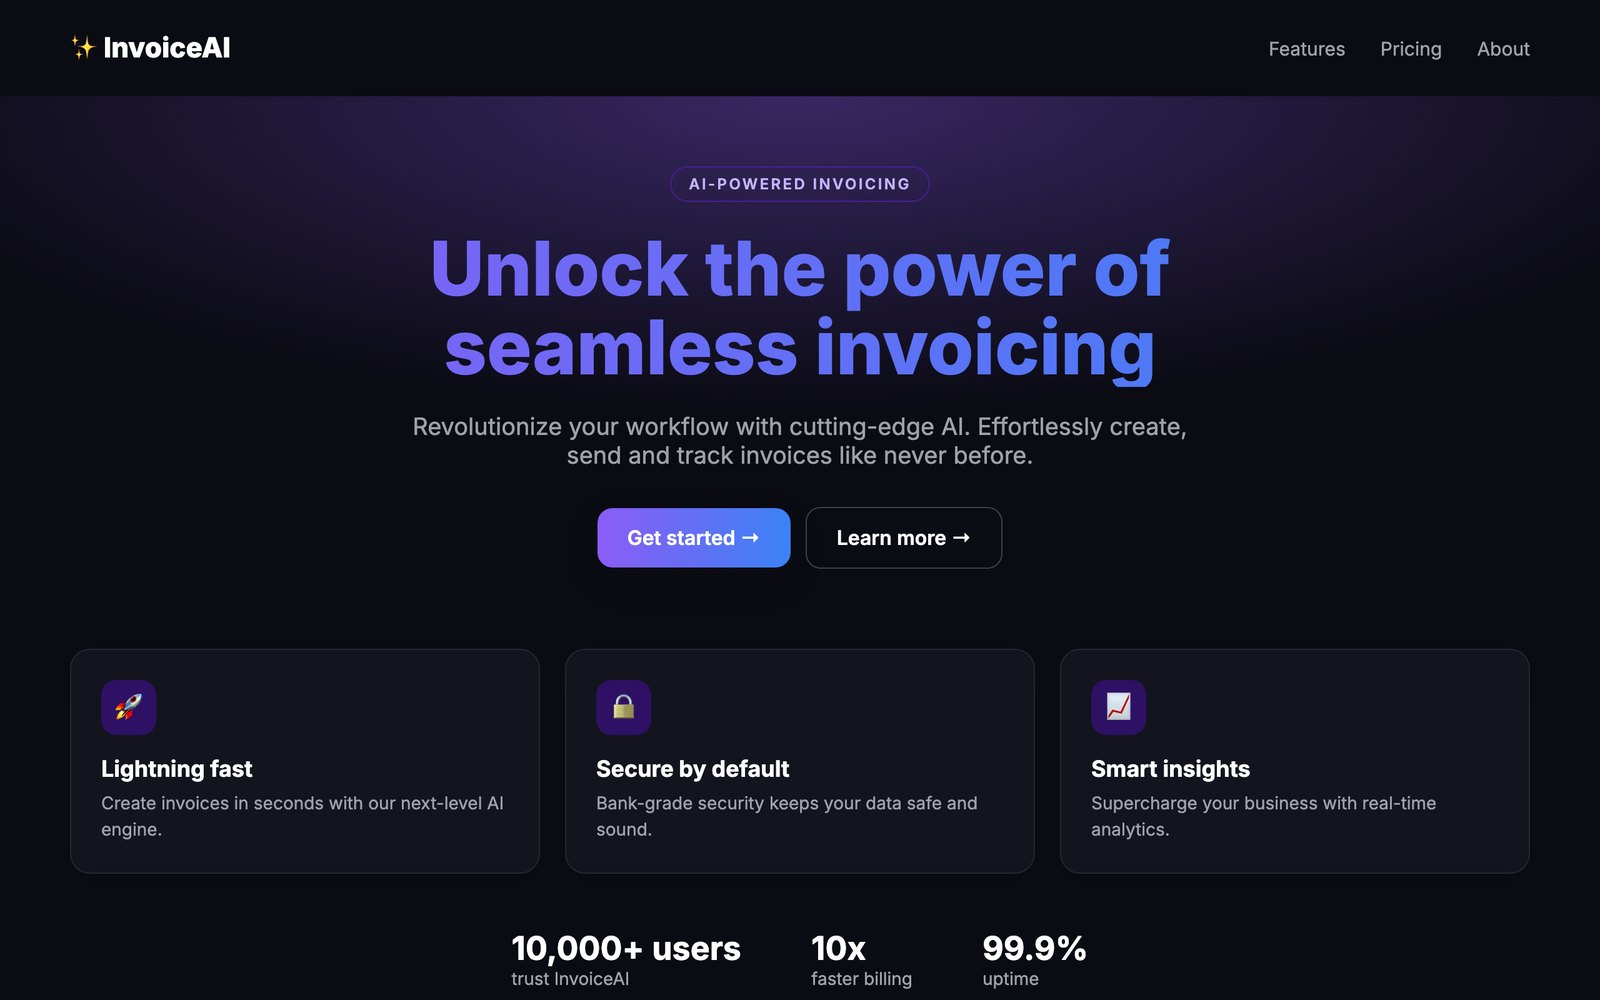
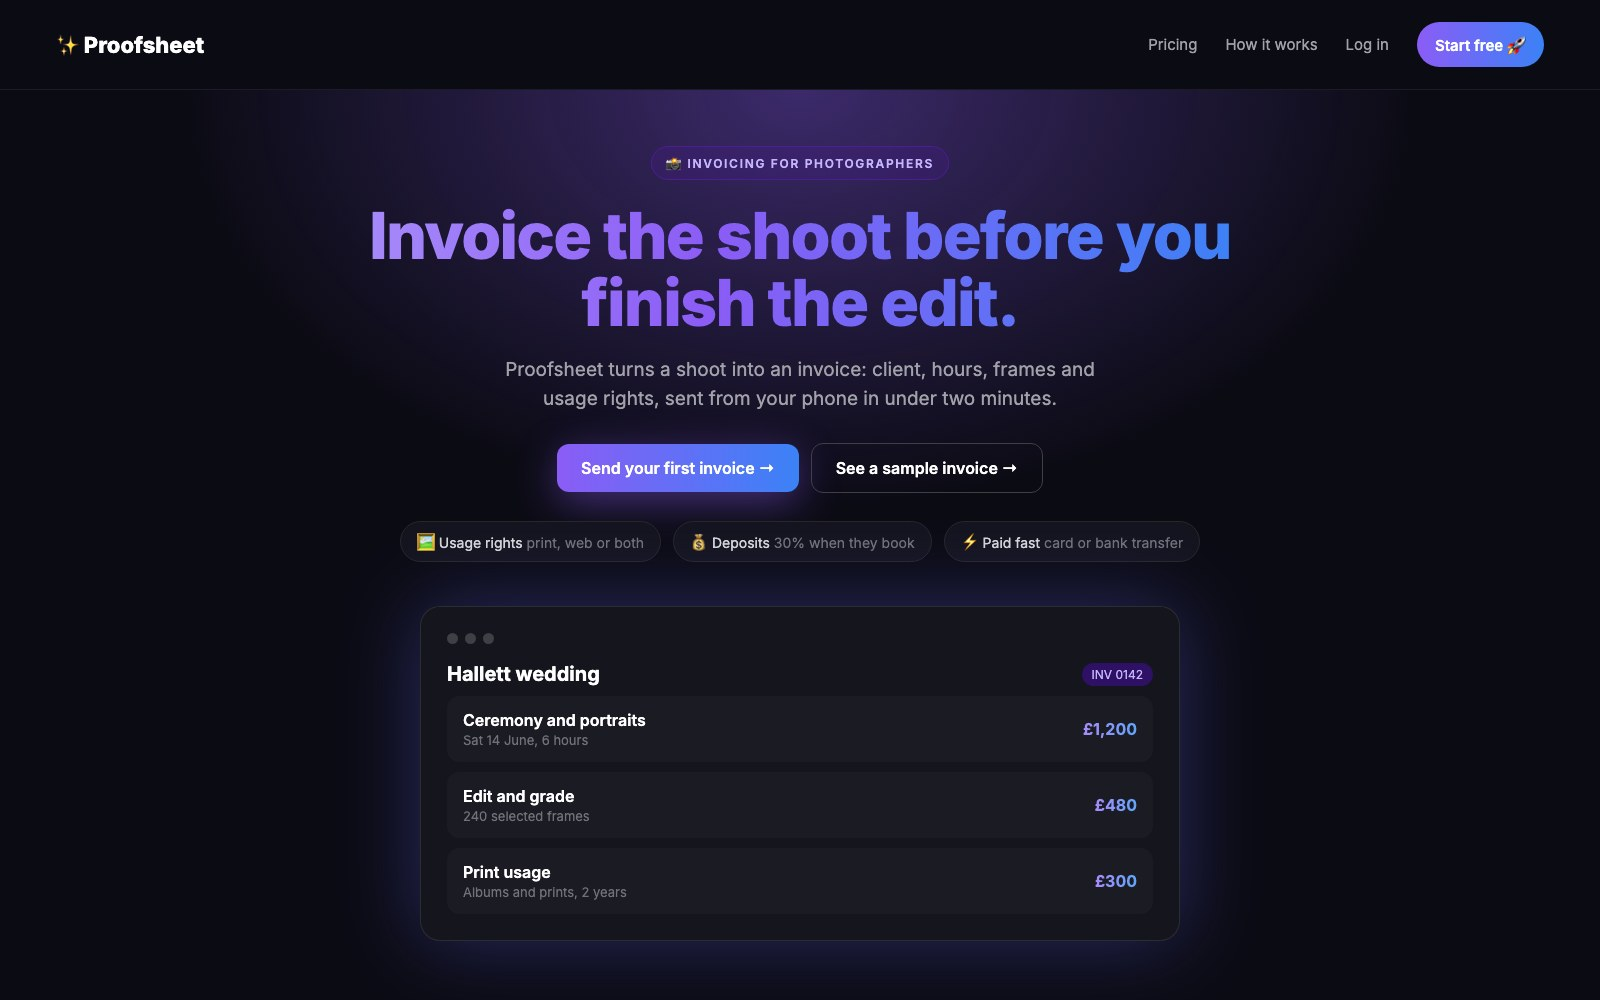
Make the example a true redesign: same page, same words
The before page was a different product with different copy, so the
comparison showed two sites instead of one redesign. It is now Proofsheet
with the exact content of after.html, styled the default AI way.

diff --git a/examples/photographer-invoicing/before.html b/examples/photographer-invoicing/before.html
@@ -2,46 +2,57 @@
 <html>
 <head>
 <meta charset="utf-8">
-<title>InvoiceAI</title>
+<title>Proofsheet</title>
 <link href="https://fonts.googleapis.com/css2?family=Inter:wght@400;500;600;700;800&display=swap" rel="stylesheet">
 <style>
-  /* A typical AI first draft for the same brief, kept to show what the detector catches. */
+  /* The same page and the same words as after.html, styled the way an agent does it by default.
+     Kept to show what the redesign changes and what the detector catches. */
   *{box-sizing:border-box;margin:0}
-  body{font-family:Inter,sans-serif;background:#0B0B14;color:#fff}
-  header{display:flex;align-items:center;justify-content:space-between;padding:24px 56px}
+  body{font-family:Inter,sans-serif;background:#0B0B14;color:#fff;overflow:hidden}
+  header{display:flex;align-items:center;justify-content:space-between;padding:22px 56px;border-bottom:1px solid #1C1C28}
   .logo{font-weight:800;font-size:22px}
+  nav{display:flex;align-items:center}
   nav a{color:#A1A1AA;margin-left:28px;text-decoration:none;font-size:15px}
-  .hero{text-align:center;padding:56px 56px 40px;background:radial-gradient(60% 60% at 50% 0%,rgba(139,92,246,.35),transparent),linear-gradient(180deg,#0B0B14,#0B0B14)}
-  .eyebrow{display:inline-block;text-transform:uppercase;letter-spacing:.14em;font-size:12px;font-weight:600;color:#C4B5FD;border:1px solid #4C1D95;border-radius:999px;padding:6px 14px}
-  h1{font-size:60px;font-weight:800;line-height:1.05;margin-top:22px;background:linear-gradient(90deg,#8B5CF6,#3B82F6);-webkit-background-clip:text;background-clip:text;color:transparent}
-  .sub{color:#A1A1AA;font-size:19px;max-width:640px;margin:20px auto 0}
+  nav a.cta{color:#fff;background:linear-gradient(90deg,#8B5CF6,#3B82F6);padding:10px 18px;border-radius:999px;font-weight:600}
+  .hero{text-align:center;padding:56px 56px 0;background:radial-gradient(55% 70% at 50% 0%,rgba(139,92,246,.38),transparent 70%)}
+  .eyebrow{display:inline-block;text-transform:uppercase;letter-spacing:.14em;font-size:12px;font-weight:600;color:#C4B5FD;border:1px solid #4C1D95;background:rgba(76,29,149,.25);border-radius:999px;padding:6px 14px}
+  h1{font-size:64px;font-weight:800;line-height:1.05;letter-spacing:-.02em;margin:22px auto 0;max-width:900px;background:linear-gradient(90deg,#A78BFA,#8B5CF6 40%,#3B82F6);-webkit-background-clip:text;background-clip:text;color:transparent}
+  .sub{color:#A1A1AA;font-size:19px;max-width:640px;margin:20px auto 0;line-height:1.5}
   .ctas{margin-top:30px}
   .btn{display:inline-block;padding:14px 24px;border-radius:12px;font-weight:600;text-decoration:none;margin:0 6px;outline:none;transition:all .3s}
-  .primary{background:linear-gradient(90deg,#8B5CF6,#3B82F6);color:#fff;box-shadow:0 10px 30px rgba(0,0,0,0.1)}
+  .primary{background:linear-gradient(90deg,#8B5CF6,#3B82F6);color:#fff;box-shadow:0 10px 40px rgba(139,92,246,.45)}
   .ghost{border:1px solid #3F3F46;color:#fff}
-  .cards{display:grid;grid-template-columns:repeat(3,1fr);gap:20px;padding:24px 56px}
-  .card{background:#14141F;border:1px solid #27272A;border-radius:16px;padding:24px;box-shadow:0 10px 30px rgba(0,0,0,0.1)}
-  .icon{width:44px;height:44px;border-radius:12px;background:#2E1065;display:flex;align-items:center;justify-content:center;font-size:22px}
-  .card h3{margin-top:16px;font-size:18px}.card p{color:#A1A1AA;font-size:14px;margin-top:6px;line-height:1.5}
-  .stats{display:flex;justify-content:center;gap:56px;padding:20px 0 40px;color:#A1A1AA;font-size:14px}
-  .stats b{display:block;color:#fff;font-size:26px}
+  .chips{display:flex;justify-content:center;gap:12px;margin-top:28px}
+  .chip{background:#14141F;border:1px solid #27272A;border-radius:999px;padding:8px 16px;font-size:14px;color:#D4D4D8}
+  .chip span{color:#71717A}
+  .preview{position:relative;width:760px;margin:44px auto 0;padding:26px;border-radius:20px;text-align:left;
+    background:rgba(255,255,255,.04);border:1px solid rgba(255,255,255,.1);backdrop-filter:blur(20px);
+    box-shadow:0 0 80px rgba(99,102,241,.35),0 10px 30px rgba(0,0,0,0.1)}
+  .bar{display:flex;gap:7px;margin-bottom:18px}.bar i{width:11px;height:11px;border-radius:50%;background:#3F3F46}
+  .row{display:flex;justify-content:space-between;align-items:center;padding:14px 16px;border-radius:12px;background:rgba(255,255,255,.03);margin-top:10px}
+  .row b{font-weight:600}.row small{display:block;color:#71717A;font-size:13px;margin-top:2px}
+  .row .amt{font-weight:700;background:linear-gradient(90deg,#A78BFA,#60A5FA);-webkit-background-clip:text;background-clip:text;color:transparent}
+  .head{display:flex;justify-content:space-between;align-items:center}
+  .head b{font-size:20px}.badge{font-size:12px;color:#C4B5FD;background:#2E1065;padding:4px 10px;border-radius:999px}
   .fade-in-up{animation:fadeUp .8s ease both}
   @keyframes fadeUp{from{opacity:0;transform:translateY(20px)}}
 </style>
 </head>
 <body>
-<header><div class="logo">✨ InvoiceAI</div><nav><a href="#">Features</a><a href="#">Pricing</a><a href="#">About</a></nav></header>
+<header><div class="logo">✨ Proofsheet</div><nav><a href="#">Pricing</a><a href="#">How it works</a><a href="#">Log in</a><a class="cta" href="#">Start free 🚀</a></nav></header>
 <section class="hero fade-in-up">
-  <span class="eyebrow">AI-powered invoicing</span>
-  <h1>Unlock the power of<br>seamless invoicing</h1>
-  <p class="sub">Revolutionize your workflow with cutting-edge AI. Effortlessly create, send and track invoices like never before.</p>
-  <div class="ctas"><a class="btn primary" href="#">Get started →</a><a class="btn ghost" href="#">Learn more →</a></div>
+  <span class="eyebrow">📸 Invoicing for photographers</span>
+  <h1>Invoice the shoot before you finish the edit.</h1>
+  <p class="sub">Proofsheet turns a shoot into an invoice: client, hours, frames and usage rights, sent from your phone in under two minutes.</p>
+  <div class="ctas"><a class="btn primary" href="#">Send your first invoice →</a><a class="btn ghost" href="#">See a sample invoice →</a></div>
+  <div class="chips"><div class="chip">🖼 Usage rights <span>print, web or both</span></div><div class="chip">💰 Deposits <span>30% when they book</span></div><div class="chip">⚡ Paid fast <span>card or bank transfer</span></div></div>
+  <div class="preview fade-in-up">
+    <div class="bar"><i></i><i></i><i></i></div>
+    <div class="head"><b>Hallett wedding</b><span class="badge">INV 0142</span></div>
+    <div class="row"><div><b>Ceremony and portraits</b><small>Sat 14 June, 6 hours</small></div><span class="amt">£1,200</span></div>
+    <div class="row"><div><b>Edit and grade</b><small>240 selected frames</small></div><span class="amt">£480</span></div>
+    <div class="row"><div><b>Print usage</b><small>Albums and prints, 2 years</small></div><span class="amt">£300</span></div>
+  </div>
 </section>
-<section class="cards">
-  <div class="card fade-in-up"><div class="icon">🚀</div><h3>Lightning fast</h3><p>Create invoices in seconds with our next-level AI engine.</p></div>
-  <div class="card fade-in-up"><div class="icon">🔒</div><h3>Secure by default</h3><p>Bank-grade security keeps your data safe and sound.</p></div>
-  <div class="card fade-in-up"><div class="icon">📈</div><h3>Smart insights</h3><p>Supercharge your business with real-time analytics.</p></div>
-</section>
-<div class="stats"><div><b>10,000+ users</b>trust InvoiceAI</div><div><b>10x</b>faster billing</div><div><b>99.9%</b>uptime</div></div>
 </body>
 </html>

diff --git a/README.md b/README.md
@@ -30,7 +30,7 @@
 
 | Typical AI first draft | Built with ship-beautiful-ui |
 |:---:|:---:|
-| <img src="assets/readme/before.jpg" alt="A typical AI first draft for an invoicing tool for photographers: dark page, purple-to-blue gradient headline 'Unlock the power of seamless invoicing', emoji feature cards and unsourced stats" width="420"> | <img src="assets/readme/after.jpg" alt="The same brief built with ship-beautiful-ui: a paper-white page with a serif headline 'Invoice the shoot before you finish the edit' and the real product, an invoice laid out on a contact sheet with amber frame numbers" width="420"> |
+| <img src="assets/readme/before.jpg" alt="Proofsheet, an invoicing tool for photographers, styled the default AI way: dark page, centered purple-to-blue gradient headline, emoji chips and a glowing glass card" width="420"> | <img src="assets/readme/after.jpg" alt="The same page and words redesigned with ship-beautiful-ui: a paper-white page with a serif headline 'Invoice the shoot before you finish the edit' and the real product, an invoice laid out on a contact sheet with amber frame numbers" width="420"> |
 
 ---
 
@@ -186,7 +186,7 @@ ship-beautiful-ui/
 │   ├── references/         # one file per step, plus effects, motion, UX rules, anti-patterns
 │   └── templates/          # DESIGN.md and REVIEW.md
 ├── docs/recipes/           # landing page, dashboard, mobile, redesign, scroll story
-├── examples/               # the before/after pages above, with DESIGN.md and detector results
+├── examples/               # the redesign above: before.html, after.html, DESIGN.md
 ├── tests/                  # unit tests and fixtures for every script
 └── .claude-plugin/         # Claude Code plugin marketplace
 ```

diff --git a/examples/photographer-invoicing/README.md b/examples/photographer-invoicing/README.md
@@ -1,11 +1,11 @@
 # Example: invoicing for freelance photographers
 
-One brief, two pages.
+One page, two designs. Same product, same words, same content: only the design changes.
 
 | | `before.html` | `after.html` |
 |---|---|---|
-| What it is | A typical AI first draft for this brief, written to show what the detector catches | The same page built by following ship-beautiful-ui |
-| `detect.py` | 3 errors, 12 warnings, 3 info | 0 findings |
+| What it is | The page the way an agent styles it by default | The same page redesigned by following ship-beautiful-ui |
+| `detect.py` | 3 errors, 5 warnings, 4 info | 0 findings |
 | `DESIGN.md` | none | [`DESIGN.md`](DESIGN.md), passes `lint_design.py` |
 
 ## The brief
